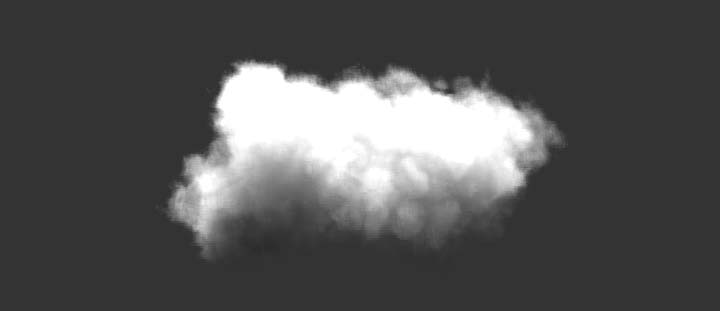
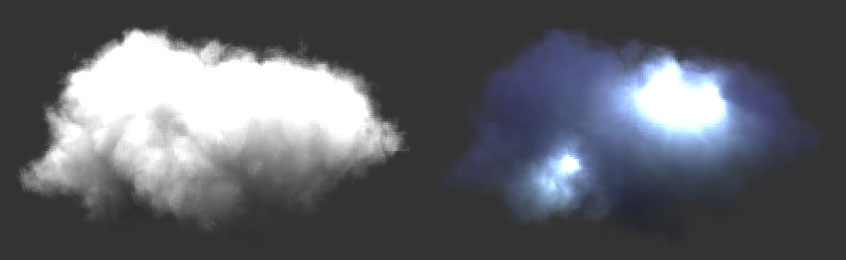
doc

diff --git a/README.md b/README.md
@@ -37,7 +37,7 @@ I also made a video demonstrating the dazzlingly complex behavior of this system
 
 ### VDB
 
-You can also render VDB data with taichi-volume-renderer. See `examples/openvdb.py`.
+You can also render VDB data with taichi-volume-renderer. See `examples/openvdb.py`. We can apply general lighting, or illuminate the volume from within like cloud-to-cloud lightning.
 
 ![cloud](images/cloud.jpg)
 
